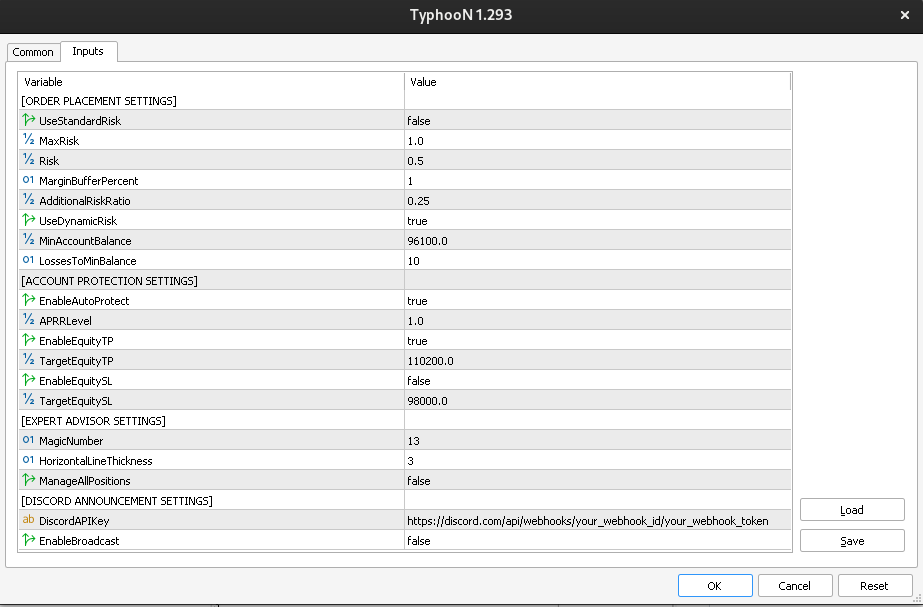
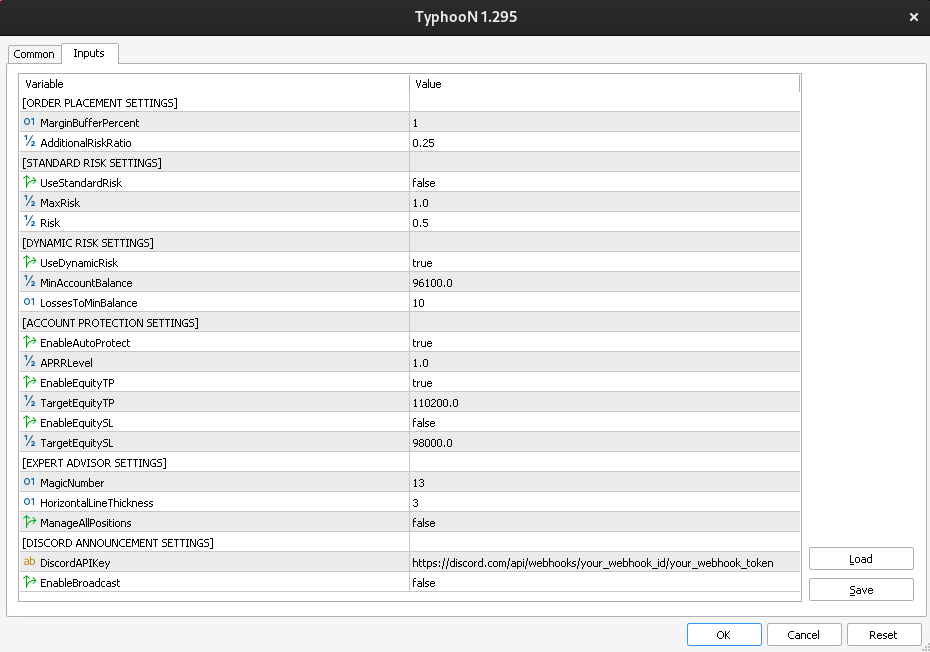
Risk Management (v1.295).  Update settings.  Update README.md and screenshot of settings.

Changed region(s): [[0.0, 0.0593, 1.0, 1.0], [0.4247, 0.0, 0.5764, 0.0593]]

diff --git a/README.md b/README.md
@@ -12,18 +12,21 @@
 - Allow Algo Trading must be checked for the expert to place trades.
 
 ### ORDER PLACEMENT SETTINGS
+- MarginBufferPercent: The percent of buffer in margin that will not be used for placing orders.
+- MagicNumber: Can be set to anything the user wants, but this expert will only modify trades/positions that match the MagicNumber on the chart.
+- AdditionalRiskRatio: The multiplier to risk when adding additional lots when  SL Break Even is detected.
+
+### STANDARD RISK SETTINGS
 - UseStandardRisk: Use standard Risk mode (user defined MaxRisk / Risk)
 - MaxRisk (Standard Mode): Maximum percentage of risk across the symbol, once this level is hit no more orders will be placed.
 - Risk(Standard Mode): The % of the account that is being risked every time "Open Trade" is clicked.
-- InitialOrdersToPlace: This is the number of orders placed when there are 0 orders on the current symbol.  Risk will be divided amongst the orders.  If another position is open on the symbol, then only 1 order will be placed.
-- MarginBufferPercent: The percent of buffer in margin that will not be used for placing orders.
-- AdditionalRiskRatio: The multiplier to risk when adding additional lots when  SL Break Even is detected.
+
+### DYNAMIC RISK SETTINGS
 - UseDynamicRisk: Use Dynamic Risk Mode.  In Dynamic Risk Mode, Risk = (Balance - MinimumAccountBalance) / LossesToMinBalance.
 - MinAccountBalance: The Minimum account balance used to calculate Dynamic Risk.
 - LossesToMinBalance: The number of losses required to reach the MinAccountBalance.
 
 ### ACCOUNT PROTECTION SETTINGS
-
 - EnableAutoProtect will place stop loss(es) at break even when RR passes AutoProtectRRLevel and risk > 0.  This will only happen once per market, and will not happen again if SL is set to break even on any position for that symbol.  (Default: false)
 - AutoProtectRRLevel is the Reward:Risk level that will trigger AutoProtect.
 - EnableEquityTP: Will close all open positions on the account when Equity >= TargetEquityTP.
@@ -32,7 +35,6 @@
 - TargetEquitySL: The Equity value of the account that EquitySL will be triggered by.
 
 ### EXPERT ADVISOR SETTINGS
-- MagicNumber: Can be set to anything the user wants, but this expert will only modify trades/positions that match the MagicNumber on the chart.
 - HorizontalLineThickness: The width in pixels that the SL, TP, and Limit lines are drawn with.
 - ManageAllPositions: This is set to false by default, which will only manage positions that have been opened by the EA's MagicNumber.  If set to true, will manage all positions on a symbol regardless of MagicNumber.
 
